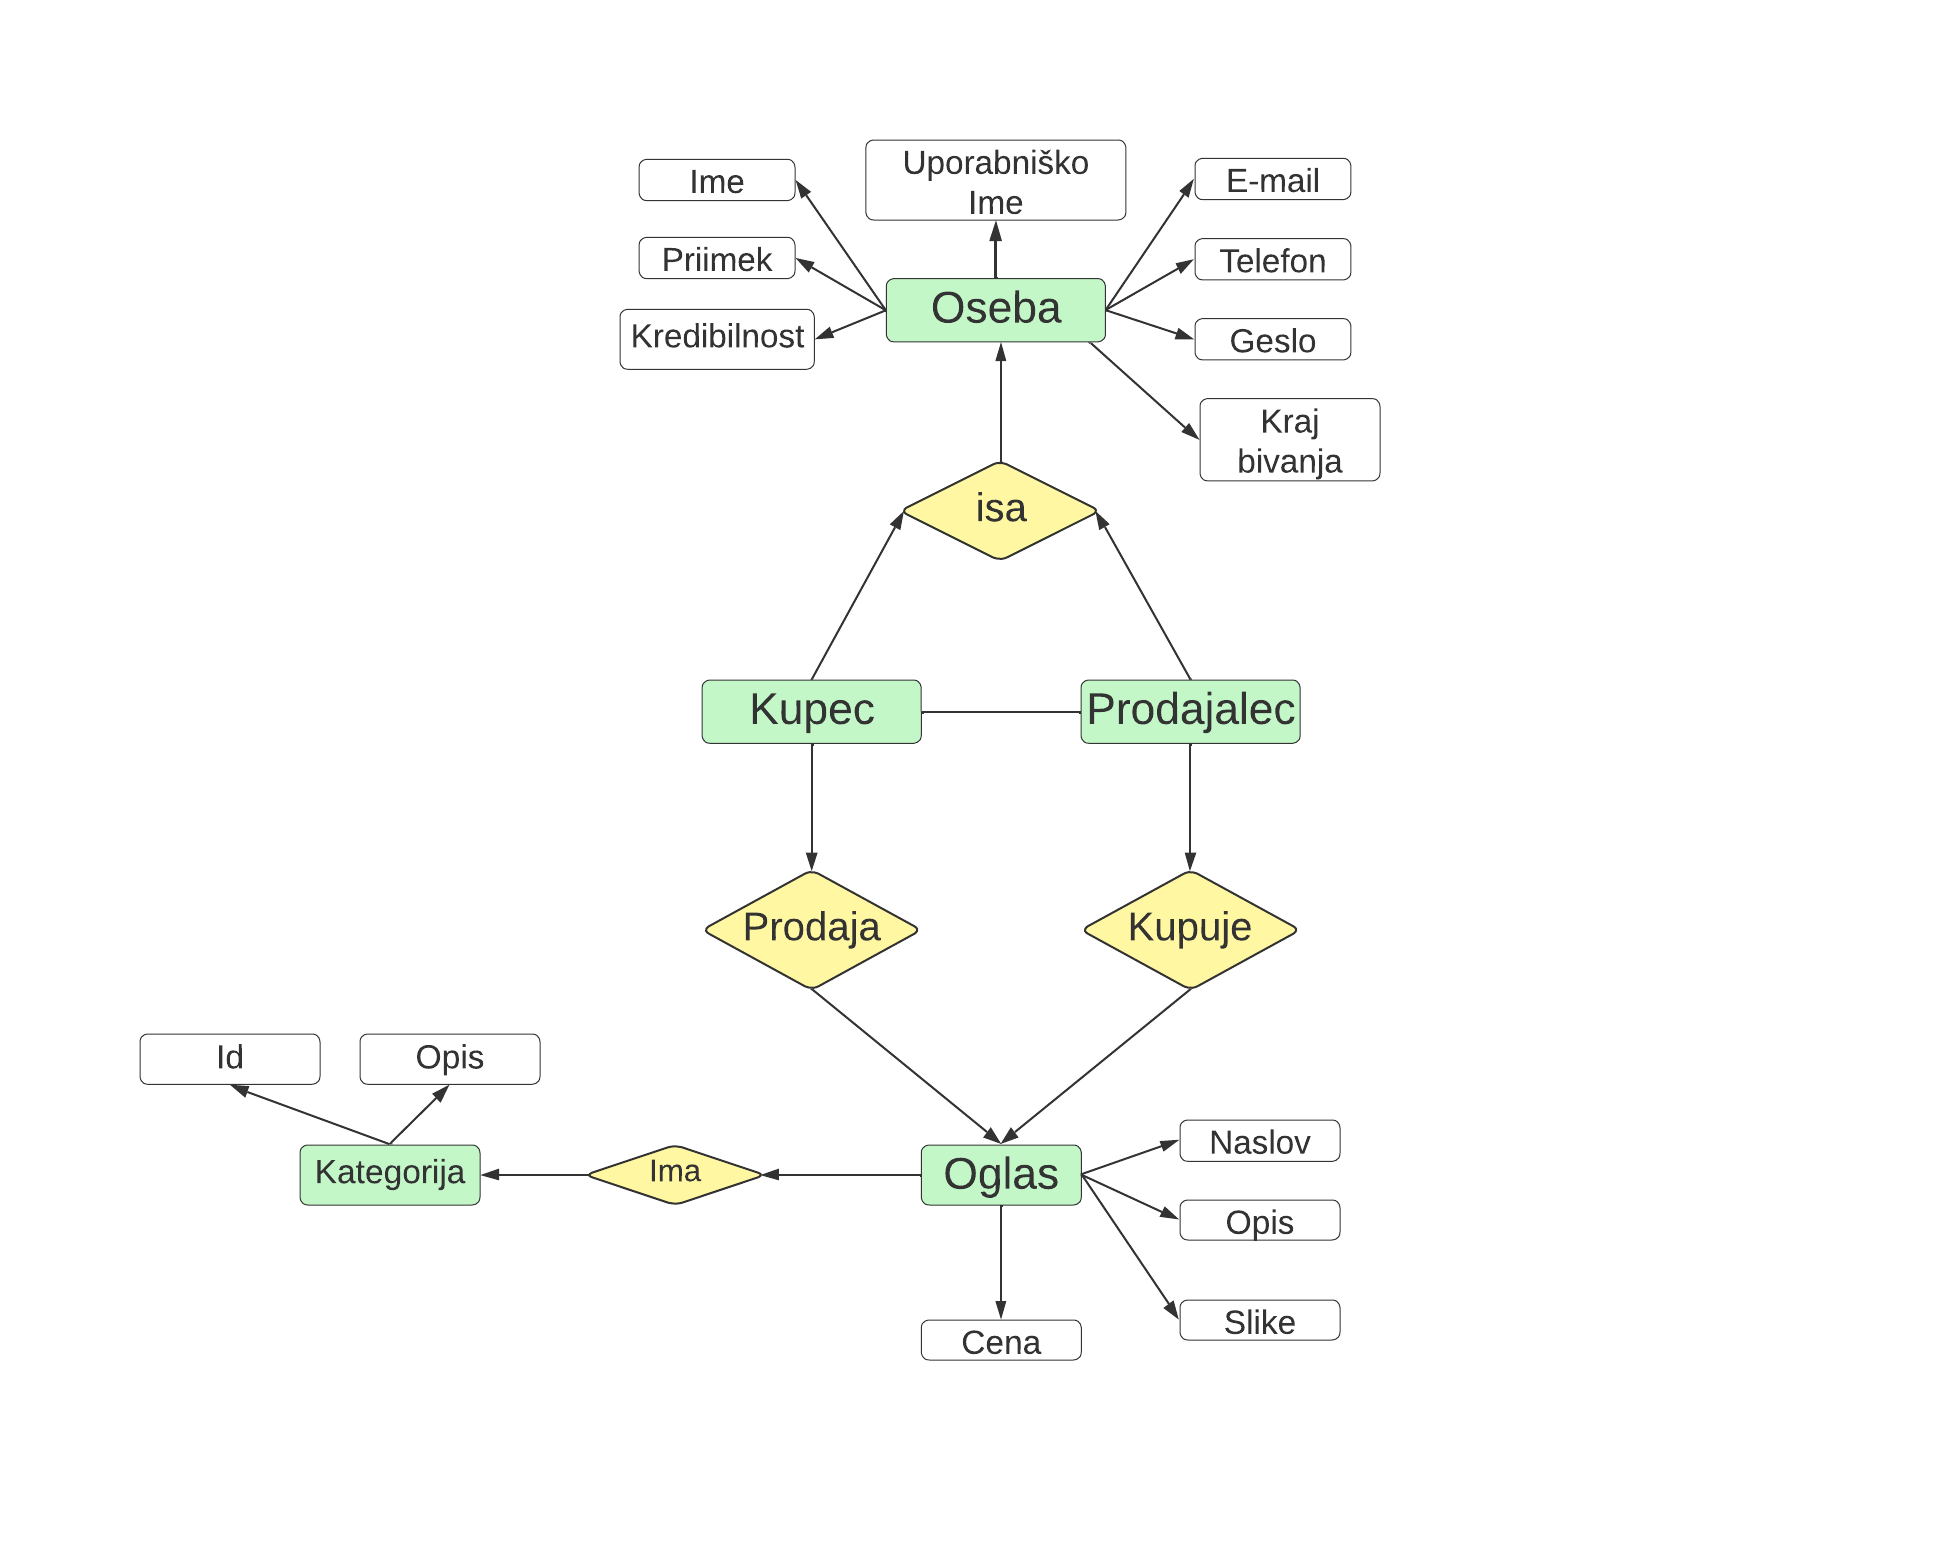
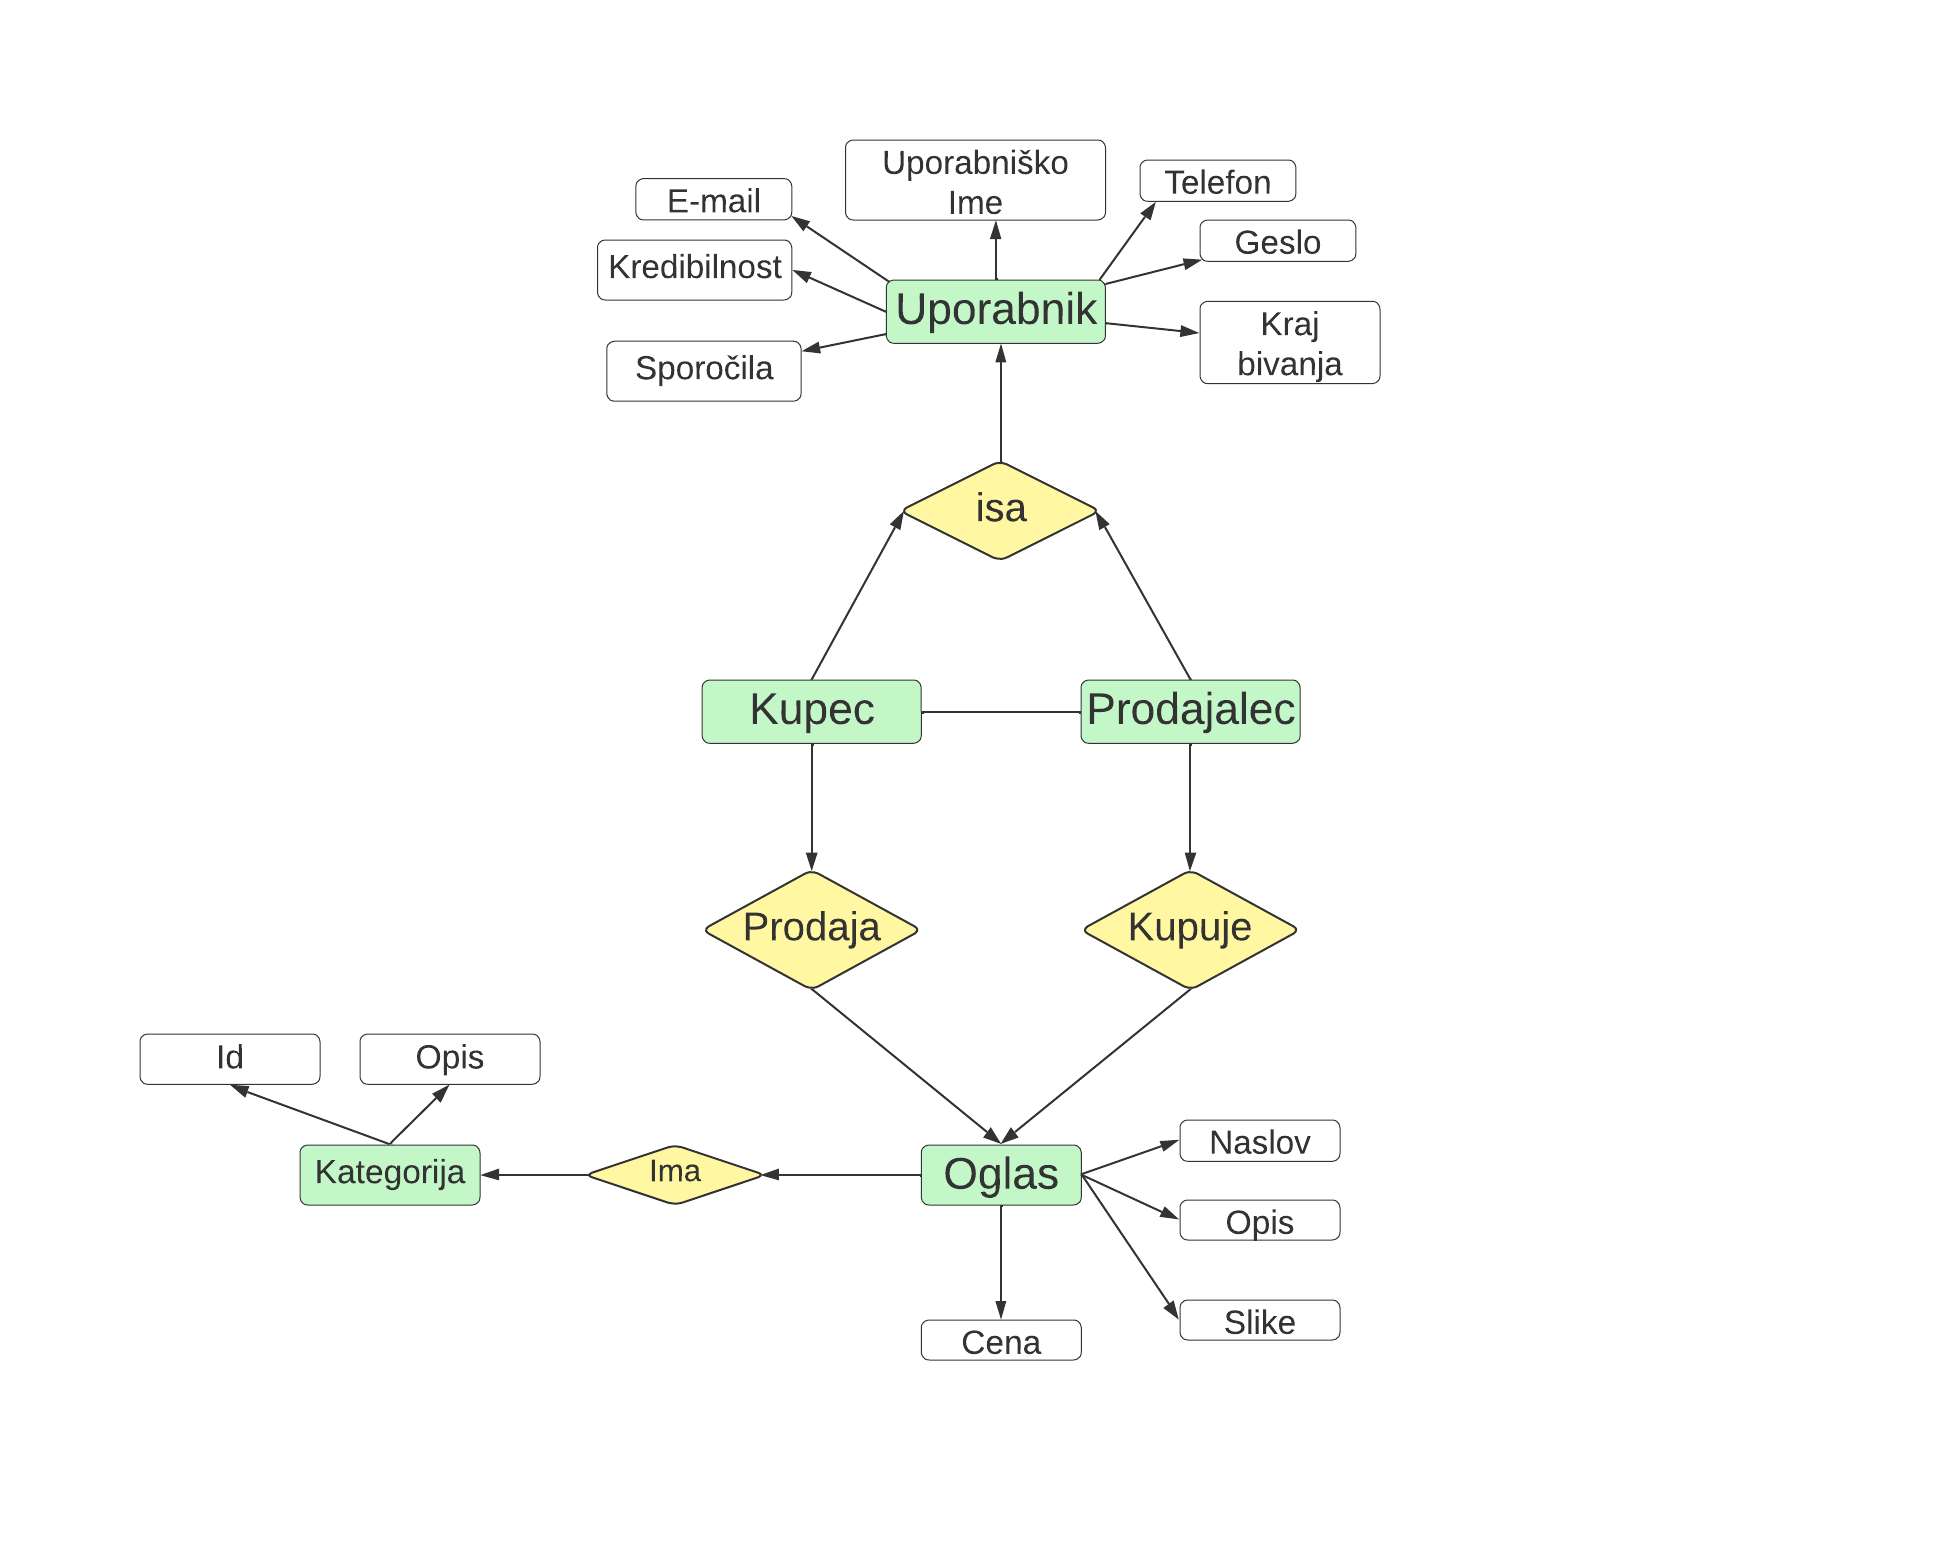
dodelal razlicne stvari
komentarji na zacetku prodajalna.py povejo se kaj je treba nardit

Changed region(s): [[0.3112, 0.0927, 0.6847, 0.3089], [0.4357, 0.0927, 0.5602, 0.1544]]

diff --git a/presentation/views/oglas.html b/presentation/views/oglas.html
@@ -1,49 +1,27 @@
-<!DOCTYPE html>
-<!-- (id, prodajalec, kategorija, opis, naslov, cena, slika) -->
-<html lang="en">
-<head>
-    <meta charset="UTF-8">
-    <meta name="viewport" content="width=device-width, initial-scale=1.0">
-    <title>{{naslov}}</title>
-    <link rel="stylesheet" href="https://cdn.simplecss.org/simple.min.css">
-    <link rel="stylesheet" href="styles.css">
-</head>
+%rebase('osnovna.html', naslov='oglas', stran='oglas')
+%if oglas==None:
+    <p>Ta oglas žal več ne obstaja. Nazaj na <a href="{{url('/')}}" >domačo stran.</a></p>
+%else:
+    <h2>{{oglas.naslov}}</h2>
+    <div>
+        <p>{{oglas.opis}}</p>
+        %if oglas.slika is not None:
+            <img src="{{oglas.slika}}" alt="Prodajalec ni priložil nobene slike.">
+        %end
+    </div>
+    <div>
+    <form action="" method="POST" style="width:60%">
+        <div class="form-group">
+            <label for="sporocilo">Se zanimate za nakup? Prodajalcu pošljite sporočilo tu:</label>
+            <input type="text" class="form-control" name="sporocilo" placeholder="Vaše sporočilo">
+        </div>
+         
+        <button type="submit" class="btn btn-primary">Pošlji</button>
+    </form>
+    %user_url = url('user', username=oglas.prodajalec)
+    <p>Te zanima še kakšen oglas uporabnika {{oglas.prodajalec}}? <a href="{{user_url}}">Tu</a> si lahko ogledaš še preostale.</p>
+    </div>
+%end
 %if napaka:
   <p class="opozorilo">{{napaka}}</p>
 %end
-<body>
-    <!-- <header>
-        <h1>Second Hand Store</h1>
-        <nav>
-            <button onclick="window.location.href='index.html'">Home</button>
-            <button onclick="window.location.href='login.html'">Login</button>
-            <button onclick="window.location.href='register.html'">Register</button>
-        </nav>
-    </header> -->
-    <main>
-        <div class="ad-container">
-            <h2>{{naslov}}</h2>
-            <img src=slika alt="Oglasu ni bila dodana nobena slika." class="ad-image">
-            <div class="ad-details">
-                <p class="ad-description">{{opis}}</p>
-                <p class="ad-price">Cena: {{cena}}€</p>
-                <p class="nekadj">ID={{id}}</p>
-
-            </div>
-            <div>
-                <forms action="../ad/{{id}}" method="POST">
-                    <p>Sporočilo: <input type="text" name="sporocilo" value="{{sporocilo}}"></p>
-                    <p><input type="hidden" id="prejemnik" name="prejemnik" value="{{prodajalec}}"></p>
-                    <p><input type="submit" value="Pošlji"></p>
-                </forms>
-            </div>
-            <div>
-                <a href="../user/{{prodajalec}}"><button>Profil prodajalca</button></a>                
-            </div>
-        </div>
-    </main>
-    <footer>
-        <p>&copy; 2024 Second Hand Store</p>
-    </footer>
-</body>
-</html>

diff --git a/presentation/views/profil.html b/presentation/views/profil.html
@@ -1,18 +1,20 @@
-<!DOCTYPE html>
-<html lang="en">
-<head>
-    <meta charset="UTF-8">
-    <meta name="viewport" content="width=device-width, initial-scale=1.0">
-    <title>{{ime}} {{priimek}}</title>
-    <link rel="stylesheet" href="https://cdn.simplecss.org/simple.min.css">
-    <link rel="stylesheet" href="styles.css">
-</head>
-<body>
-    <div class="container">
-        <h1>Profil uporabika/ce {{ime}}</h1>
-        <div class="profile-info">
-            <p><label>Kraj bivanja</label>Nekje lepo</p>
-        </div>
-    </div>
-</body>
-</html>
+%rebase('osnovna.html', naslov='profil', stran='profil')
+%if uporabnik==None:
+    <p>Uporabnika s tem imenom žal ni. Nazaj na <a href="{{url('/')}}" >domačo stran.</a></p>
+%else:
+    <h2>{{uporabnik.uporabnisko_ime}}</h2>
+    <h3>Oglasi uporabnika:</h3>
+    %if oglasi == []:
+        <p>Ta uporabnik še nima objavljenega nobenega oglasa.</p>
+    %else:
+    <ul>
+        %for ad in oglasi:
+            %new_url = url('oglas', x=ad.id)
+            <li><a href="{{new_url}}">{{ad.naslov}}</a></li>
+    </ul>        
+    %end
+
+%end
+%if napaka:
+  <p class="opozorilo">{{napaka}}</p>
+%end

diff --git a/presentation/views/index.html b/presentation/views/index.html
@@ -1,24 +1,18 @@
 %rebase('osnovna.html', naslov='index', stran='index')
 
 <div >
-    <h2>Nazadnje dodani oglasi:</h2>
+    <h2>Nekaj oglasov:</h2>
         <br>  
       <div style="display: flex;">
-  
-      <div style="flex:1;">
-        <table class="table">
-            %for oglas in oglasi:
-          <tr>
-             <td>{{oglas.naslov}}</td>
-          </tr>
-        %end
-        </table>
-  
+          <ul>          
+            %for ad in oglasi:
+            %new_url = url('oglas', x=ad.id)
+            <li><a href="{{new_url}}">{{ad.naslov}}</a></li>
+          </ul>
+            %end
   
   
       </div>    
-  
-      </div>
      
   </div>
   

diff --git a/presentation/views/login.html b/presentation/views/login.html
@@ -19,7 +19,7 @@
   </div>
   <div class="form-group">
     <label for="password">Geslo</label>
-    <input type="password" class="form-control" name="password" value="uporabnik.geslo">
+    <input type="password" class="form-control" name="password" placeholder="Ponovno vpišite geslo">
   </div>
  
   <button type="submit" class="btn btn-primary">Prijava</button>

diff --git a/prodajalna.py b/prodajalna.py
@@ -7,16 +7,17 @@ from services.oglas_service import OglasService
 
 import auth as auth
 
-#popravi bazo, da je up_ime enolicno, odstrani ime priimek
-#popravi er diagram
-
+#popravi bazo da so def sporocila {} in ne NULL 
+#dodaj viewed za najbolj ogledane oglase?
+#dodaj da je ogled svojega profila drugacen--urejanje, dodajanje info, oglasov, branje sporocil...
+#css, urejanje html, lepsi izgled...
 
 SERVER_PORT = os.environ.get('BOTTLE_PORT', 8080)
 RELOADER = os.environ.get('BOTTLE_RELOADER', True)
 DB_PORT = os.environ.get('POSTGRES_PORT', 5432)
 
 authS = AuthService()
-oglasiS = OglasService()
+oglasS = OglasService()
 
 
 def cookie_required(f):
@@ -38,7 +39,7 @@ def static(filename):
 @get('/')
 @cookie_required
 def index():
-    oglasi = oglasiS.dobi_nakljucne_oglase(10)
+    oglasi = oglasS.dobi_nakljucne_oglase(10)
     return template('index.html', oglasi=oglasi)
 
 @get('/login')
@@ -65,7 +66,6 @@ def login_post():
 @get('/logout')
 def logout():
     response.delete_cookie("uporabnik")
-    response.delete_cookie("rola")
     
     return template('login.html', uporabnik=None,napaka=None)
 
@@ -89,10 +89,39 @@ def register_post():
     #se pregledas ksne pogoje...
 
     uporabnik = authS.dodaj_uporabnika(username,password,email,'','')
-
+    #popravi da samo vpise geslo, ki ni hash,
     return template("login.html", uporabnik=uporabnik, napaka=None)
-    
 
+@get('/ad/<x:int>')
+def oglas(x):
+    if oglasS.obstaja_oglas(x):
+        oglas = oglasS.dobi_oglas(x)
+        return template("oglas.html", oglas=oglas,napaka=None)
+    else:
+        return template("oglas.html",oglas=None,napaka=None)
+
+@post('/ad/<x:int>')
+def oglas_post(x):
+    oglas = oglasS.dobi_oglas(x)
+    sporocilo = request.forms.get('sporocilo')
+    sporocilo = '{'+sporocilo+'}'
+    if sporocilo == None: #nekaj ne dela ker ne pokaze napake. Prvo prejeto sporocilo ni string?
+        return template("oglas.html",oglas=oglas,napaka="Sporočilo mora imeti vsebino.")
+    prodajalec = authS.dobi_uporabnika(oglas.prodajalec)
+    authS.poslji_sporocilo(prodajalec,sporocilo)
+
+    return template("oglas.html",oglas=oglas,napaka="Sporočilo uspešno poslano!")
+
+@get('/user/<username>')
+def user(username):
+    if not authS.obstaja_uporabnik(username):
+        return template("profil.html",uporabnik=None,oglasi=None,napaka=None)
+    uporabnik = authS.dobi_uporabnika(username)
+    trenutni_uporabnik = request.get_cookie("username")
+    if uporabnik == trenutni_uporabnik:
+        return template("profil.html",uporabnik=uporabnik,oglasi=oglasi,napaka="Uredi svoj profil")
+    oglasi = authS.dobi_oglase_uporabnika(uporabnik)
+    return template("profil.html",uporabnik=uporabnik,oglasi=oglasi,napaka=None)
 
 
 

diff --git a/data/repository.py b/data/repository.py
@@ -38,4 +38,19 @@ class Repo:
             VALUES (%s, %s, %s, %s, %s, %s, %s)
             """,(u.uporabnisko_ime, u.geslo, u.email, u.kredibilnost, u.telefon, u.kraj_bivanja, u.sporocila,))
         self.conn.commit()
-    
+
+    def poslji_sporocilo(self, u, sp):
+        self.cur.execute("""
+            UPDATE uporabniki
+            SET sporocila=(sporocila || %s)
+            WHERE uporabnisko_ime=%s
+            """,(sp,u.uporabnisko_ime,))
+        self.conn.commit()
+
+    def dobi_oglase_uporabnika(self, u):
+        self.cur.execute("""
+            SELECT * FROM oglasi
+            WHERE prodajalec=%s
+            """,(u.uporabnisko_ime,))
+        oglasi = [oglas.from_dict(t) for t in self.cur.fetchall()]
+        return oglasi

diff --git a/services/auth_service.py b/services/auth_service.py
@@ -15,6 +15,9 @@ class AuthService:
         except:
             return False
         
+    def dobi_uporabnika(self, u):
+        return self.repo.dobi_uporabnika(u)
+        
     def prijavi_uporabnika(self, u, geslo):
         user = self.repo.dobi_uporabnika(u)
         geslo_bytes = geslo.encode('utf-8')
@@ -41,3 +44,9 @@ class AuthService:
 
         self.repo.dodaj_uporabnika(u)
         return u
+    
+    def poslji_sporocilo(self, u, sporocilo):
+        self.repo.poslji_sporocilo(u,sporocilo)
+
+    def dobi_oglase_uporabnika(self, u):
+        return self.repo.dobi_oglase_uporabnika(u)

diff --git a/services/oglas_service.py b/services/oglas_service.py
@@ -4,9 +4,18 @@ from typing import List
 import bcrypt
 
 class OglasService:
+    repo : Repo
+
     def __init__(self) -> None:
         self.repo = Repo()
 
+
+    def obstaja_oglas(self, id):
+        try:
+            o = self.repo.dobi_oglas(id)
+            return True
+        except:
+            return False
 
     def dobi_oglas(self, id):
         return self.repo.dobi_oglas(id)
